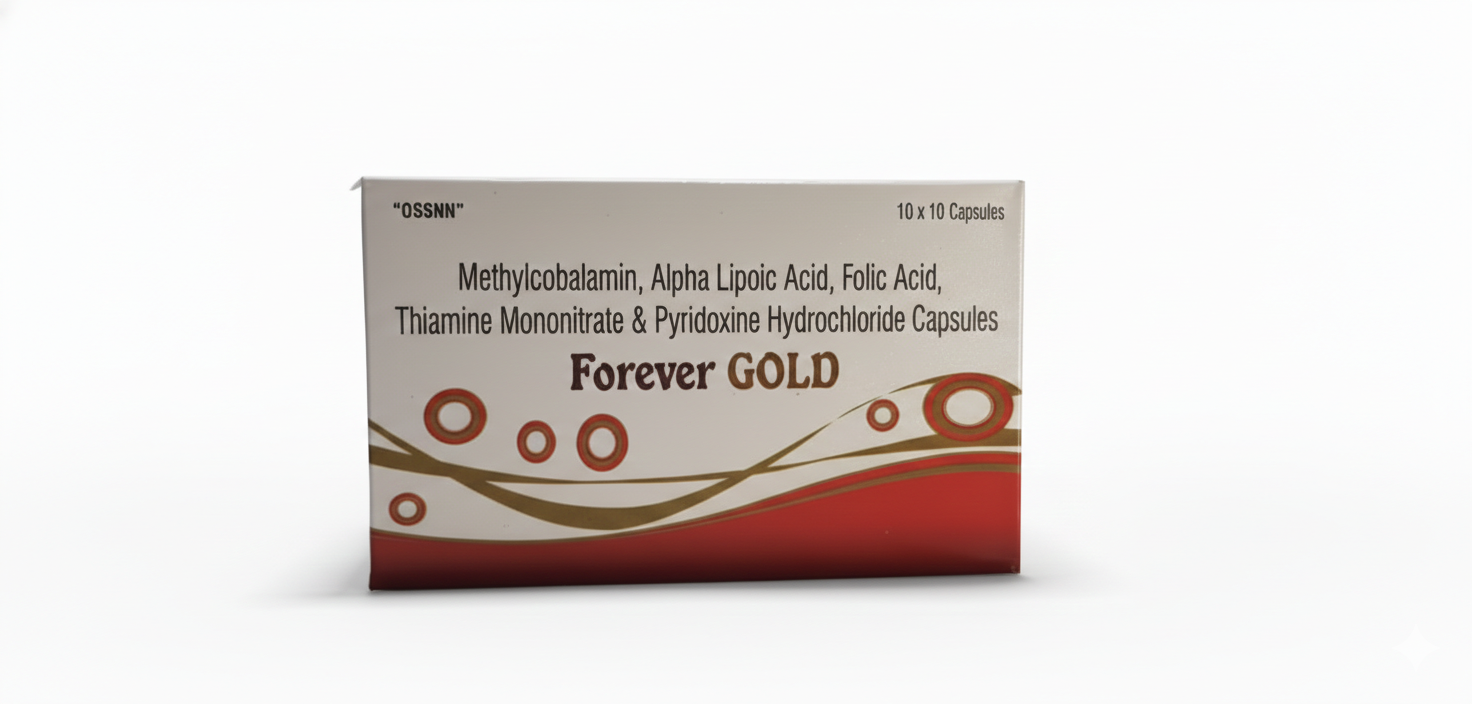
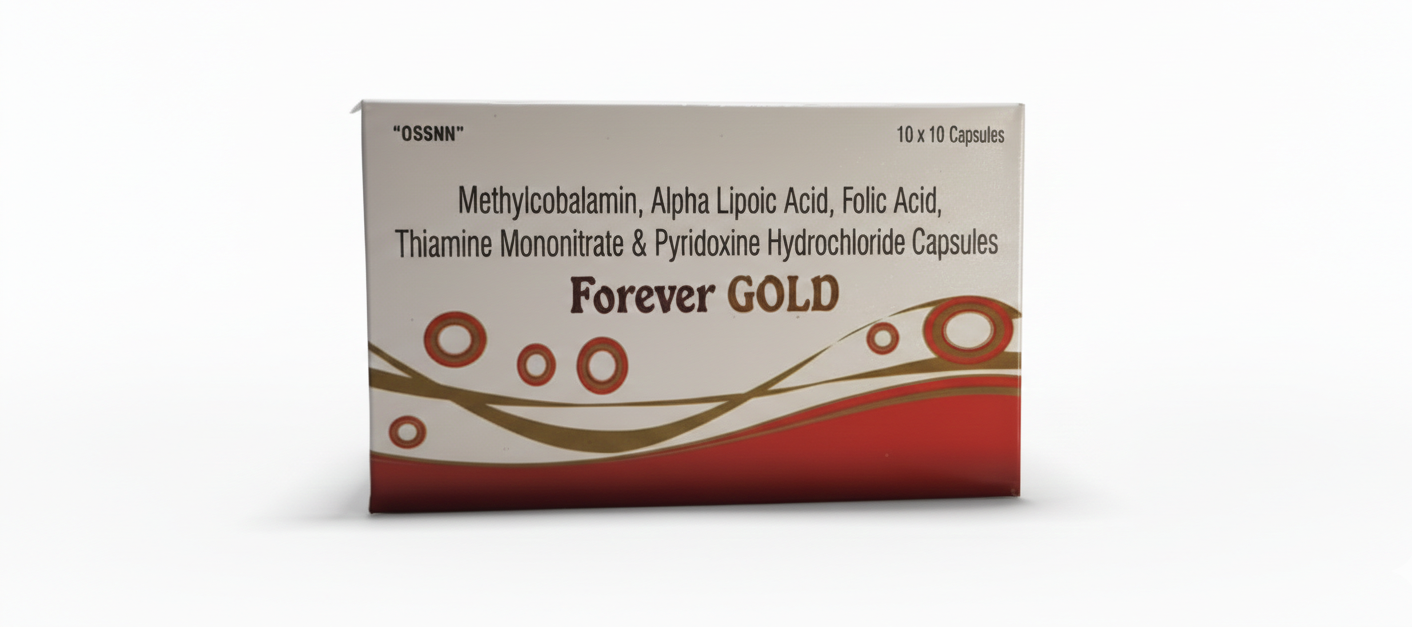
added product images

Changed region(s): [[0.2181, 0.1515, 0.7479, 0.8788]]

diff --git a/international-portfolio.html b/international-portfolio.html
@@ -51,18 +51,30 @@
             <div class="wrap">
                 <div class="cards">
                     <div class="card">
-                        <div class="kicker">Neuro &amp; Wellness</div>
-                        <h3>Forever Gold</h3>
-                        <p>An advanced nutritional supplement combining essential neurotropic vitamins and antioxidants
-                            to support nerve health, energy metabolism, and overall wellness.</p>
-                        <p><a href="products.html#forever-gold">Full product details</a></p>
+                        <div class="kicker">Broad-Spectrum Antibiotic</div>
+                        <h3>Co-Amoxiclav Tablets</h3>
+                        <p>Co-Amoxiclav Tablets combine Amoxicillin with Clavulanic Acid to provide broad-spectrum
+                            antibacterial coverage against a wide range of susceptible bacterial infections.
+                            Manufactured
+                            under stringent quality standards, our Clavulanic Acid helps protect Amoxicillin from
+                            beta-lactamase-producing bacteria, enhancing its effectiveness.</p>
                     </div>
                     <div class="card">
-                        <div class="kicker">Antibiotic</div>
-                        <h3>Melomox 1000</h3>
-                        <p>An amoxicillin and clavulanate antibiotic formulation developed to provide reliable
-                            antibacterial therapy under medical supervision.</p>
-                        <p><a href="products.html#melomox-1000">Full product details</a></p>
+                        <div class="kicker">Advanced Antibacterial Therapy</div>
+                        <h3>Cefuroxime + Clavulanic Acid Tablets</h3>
+                        <p>Cefuroxime + Clavulanic Acid tablets combine a second-generation cephalosporin antibiotic
+                            with a beta-lactamase inhibitor to support the treatment of susceptible bacterial
+                            infections.
+                            Developed with a focus on quality, safety, and consistency, this formulation is manufactured
+                            to meet pharmaceutical standards.</p>
+                    </div>
+                    <div class="card">
+                        <div class="kicker">Quality Formulation for Global Healthcare</div>
+                        <h3>Cefuroxime Axetil + Clavulanic Acid Tablets</h3>
+                        <p>Cefuroxime Axetil + Clavulanic Acid Tablets are formulated to deliver reliable antibacterial
+                            therapy through the combination of an oral cephalosporin antibiotic and a beta-lactamase
+                            inhibitor. This product is manufactured in compliance with stringent quality control
+                            processes.</p>
                     </div>
                 </div>
             </div>
@@ -103,13 +115,14 @@
                     Insights</a><a href="contact.html">Contact Us</a>
             </div>
             <div>
-                <h4>Contact</h4><a href="mailto:info@example.com">info@example.com</a><a href="tel:+910000000000">+91
-                    00000 00000</a><span>Your company address, City, State, India</span>
+                <h4>Contact</h4><a href="mailto:melloratebiotech@gmail.com">melloratebiotech@gmail.com</a><a
+                    href="tel:+919412244308">+91
+                    94122 44308</a><span>98 MMIG Ram Ganga Vihar, Moradabad, Uttar Pradesh, India</span>
             </div>
         </div>
         <div class="wrap legal">© <span id="y">2026</span> Mellorate Biotech. All rights reserved.</div>
     </footer>
-    <script>document.getElementById("y").textContent = new Date().getFullYear(); var b = document.querySelector(".menu"), n = document.getElementById("nav"); b.addEventListener("click", function () {var o = n.classList.toggle("open"); b.setAttribute("aria-expanded", o)})</script>
+    <script>document.getElementById("y").textContent = new Date().getFullYear(); var b = document.querySelector(".menu"), n = document.getElementById("nav"); b.addEventListener("click", function () { var o = n.classList.toggle("open"); b.setAttribute("aria-expanded", o) })</script>
 </body>
 
 </html>

diff --git a/products.html b/products.html
@@ -63,6 +63,7 @@
                             letter-spacing="1.5" fill="#fff">NEURO &amp; WELLNESS</text>
                     </svg>
                 </div>
+
                 <div class="two">
                     <div>
                         <h3>Supporting Nerve Health. Enhancing Everyday Vitality.</h3>
@@ -92,6 +93,7 @@
                         </dl>
                     </div>
                 </div>
+                <img class="product-image" src="images/forever.png" alt="Forever Gold product pack">
             </div>
         </section>
 
@@ -120,6 +122,7 @@
                             letter-spacing="1.5" fill="#fff">AMOXICILLIN + CLAVULANATE</text>
                     </svg>
                 </div>
+
                 <div class="two">
                     <div>
                         <h3>Reliable Protection against Susceptible Infections</h3>
@@ -158,6 +161,7 @@
                         <p class="note">Antibiotics should be used only under medical supervision.</p>
                     </div>
                 </div>
+                <img class="product-image" src="images/melomox.png" alt="Melomox 1000 product pack">
             </div>
         </section>
 
@@ -188,7 +192,7 @@
         </div>
         <div class="wrap legal">© <span id="y">2026</span> Mellorate Biotech. All rights reserved.</div>
     </footer>
-    <script>document.getElementById("y").textContent = new Date().getFullYear(); var b = document.querySelector(".menu"), n = document.getElementById("nav"); b.addEventListener("click", function () {var o = n.classList.toggle("open"); b.setAttribute("aria-expanded", o)})</script>
+    <script>document.getElementById("y").textContent = new Date().getFullYear(); var b = document.querySelector(".menu"), n = document.getElementById("nav"); b.addEventListener("click", function () { var o = n.classList.toggle("open"); b.setAttribute("aria-expanded", o) })</script>
 </body>
 
 </html>

diff --git a/style.css b/style.css
@@ -457,6 +457,18 @@ ul.bullets li {
     filter: drop-shadow(0 14px 18px rgba(0, 0, 0, .5))
 }
 
+.product-image {
+    display: block;
+    width: 100%;
+    max-width: 860px;
+    height: auto;
+    max-height: 520px;
+    object-fit: contain;
+    margin: 0 auto 48px;
+    border: 1px solid var(--line);
+    box-shadow: 0 12px 30px rgba(15, 28, 30, .12)
+}
+
 .product dt {
     font-weight: 700;
     margin-top: 1.1em;
